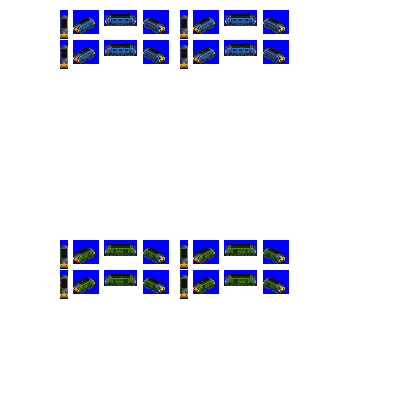
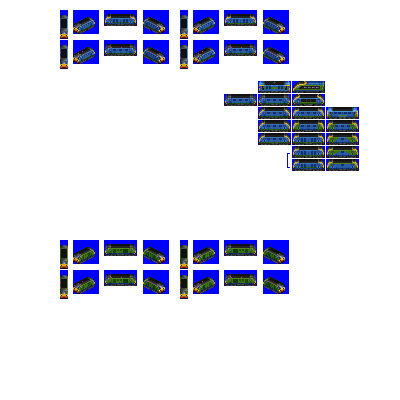
Change: WIP on improving Gosling Blast sprites

Changed region(s): [[0.54, 0.18, 0.9, 0.45], [0.24, 0.03, 0.36, 0.06], [0.57, 0.03, 0.66, 0.06]]

diff --git a/src/vehicles/gosling_blast.py b/src/vehicles/gosling_blast.py
@@ -14,7 +14,7 @@ def main(roster_id):
                             gen=6,
                             pantograph_type='z-shaped-double',
                             intro_date_offset=2,  # introduce later than gen epoch by design
-                            sprites_complete=True)
+                            sprites_complete=False)
 
     consist.add_unit(type=ElectricEngineUnit,
                      weight=128,
